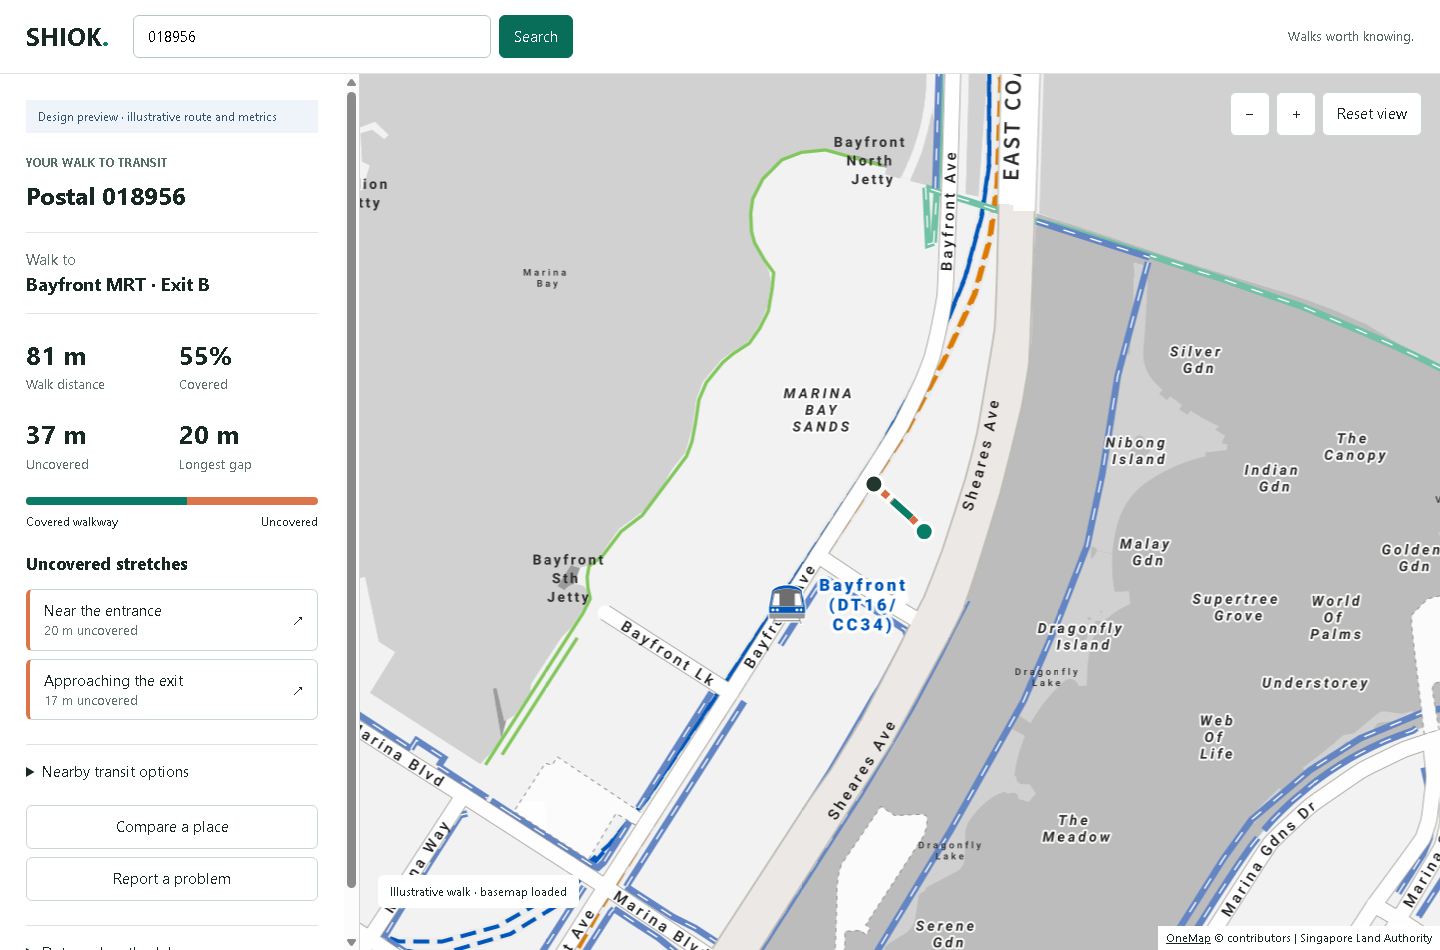
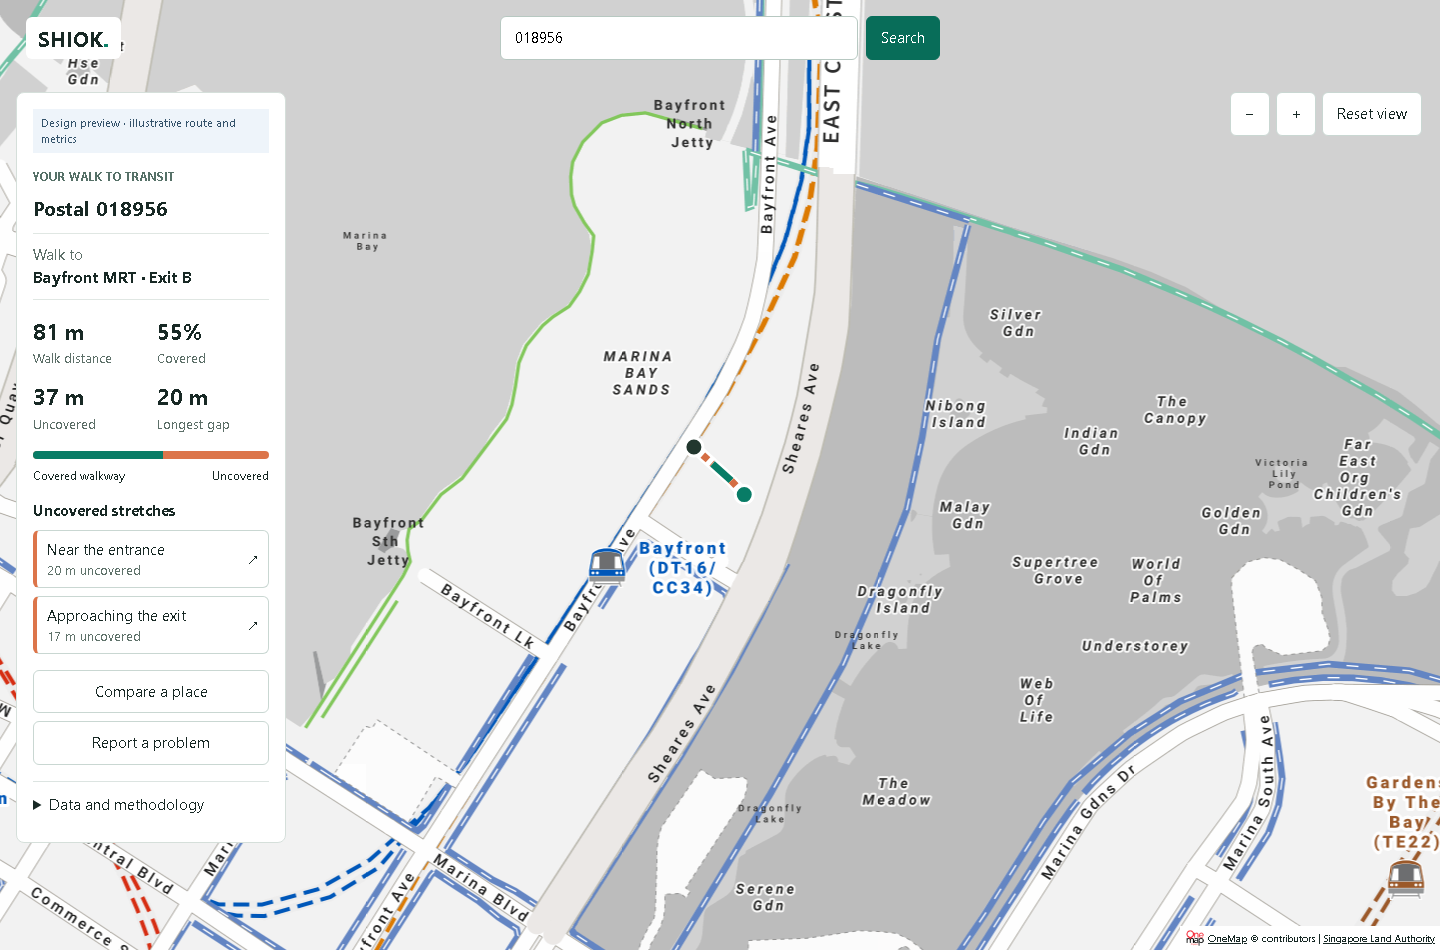
style: prioritize map in shelter walk prototype

diff --git a/qa/prototypes/shelter-walk.html b/qa/prototypes/shelter-walk.html
@@ -4,9 +4,11 @@
 *{box-sizing:border-box}body{margin:0;font:15px/1.45 system-ui,sans-serif;color:#182925;background:#edf1f1}button,input,textarea{font:inherit}button{cursor:pointer}button:focus-visible,input:focus-visible,textarea:focus-visible{outline:3px solid #147ca3;outline-offset:3px}header{height:74px;display:flex;align-items:center;gap:24px;padding:16px 26px;background:white;border-bottom:1px solid #dce4e1}header strong{font-size:25px}header small{color:#566762;margin-left:auto}form{display:flex;gap:8px;max-width:440px;flex:1}input{width:100%;min-width:0;border:1px solid #b7c8c1;border-radius:6px;padding:10px 14px}button{border:1px solid #c9d7d2;border-radius:6px;background:white;padding:10px 14px;color:inherit}.primary{background:#086d59;color:white;border-color:#086d59}main{height:calc(100dvh - 74px);display:grid;grid-template-columns:360px 1fr}.panel{background:white;overflow:auto;padding:26px;border-right:1px solid #ccd9d3;z-index:2}.eyebrow{font-size:12px;text-transform:uppercase;color:#567168;font-weight:700}h1{font-size:24px;line-height:1.2;margin:8px 0}h2{font-size:17px;margin:22px 0 12px}.muted{color:#5d7069}p{margin:10px 0}.destination{padding:16px 0;border-top:1px solid #e0e7e3;border-bottom:1px solid #e0e7e3;margin:22px 0 14px}.destination strong{display:block;font-size:18px}.metrics{display:grid;grid-template-columns:1fr 1fr;gap:20px 14px;margin:22px 0}.metrics strong{font-size:26px;display:block}.metrics span{font-size:13px;color:#5d7069}.coverage{height:8px;background:#dc754a;border-radius:4px;overflow:hidden}.coverage div{width:55%;height:100%;background:#087c66}.legend{display:flex;justify-content:space-between;font-size:12px;margin-top:8px}.gap{display:flex;align-items:center;justify-content:space-between;width:100%;text-align:left;margin:8px 0;border-left:4px solid #dc754a}.gap[aria-pressed=true]{background:#fff0e9}.gap small{display:block;color:#60736b}.actions{display:grid;gap:8px;margin-top:22px}details{border-top:1px solid #dce4e1;padding-top:16px;margin-top:24px}summary{cursor:pointer}.map{position:relative;overflow:hidden;background:#e1e9e8}canvas{width:100%;height:100%;display:block}.maptools{position:absolute;top:18px;right:18px;display:flex;gap:6px}.mapnote{position:absolute;bottom:42px;left:18px;background:white;padding:8px 12px;border-radius:6px;font-size:12px}.attribution{position:absolute;right:0;bottom:0;background:white;padding:4px 8px;font-size:11px}.attribution a{color:inherit}.toggle{display:none}dialog{border:1px solid #bccdc5;border-radius:8px;padding:24px;width:min(460px,calc(100% - 28px));color:inherit}dialog::backdrop{background:#172b2766}dialog h2{margin-top:0}label{display:block;margin:16px 0 6px}textarea{width:100%;min-height:100px}dialog footer{display:flex;justify-content:flex-end;gap:8px;margin-top:18px}#notice{font-size:12px;color:#5d7069}.candidate{width:100%;text-align:left;margin:6px 0}.candidate small{display:block}.prototype{background:#eef4fa;color:#34536b;padding:8px 12px;font-size:12px;margin-bottom:18px}.hidden{display:none}
 @media(max-width:700px){header{height:114px;padding:12px 16px;flex-wrap:wrap;gap:8px}header strong{font-size:22px}header small{font-size:11px}form{order:3;max-width:none;flex-basis:100%}main{height:calc(100dvh - 114px);display:block;position:relative}.map{height:100%}.panel{position:absolute;bottom:28px;left:8px;right:8px;border:1px solid #cddad4;border-radius:8px;padding:16px;max-height:235px;overflow:auto;box-shadow:0 4px 18px #19382a18}.panel.expanded{max-height:78%}.panel:not(.expanded) .more{display:none}.toggle{display:block;margin-left:auto;padding:5px 10px;font-size:12px}.panel h1{font-size:19px}.prototype{padding:4px 8px;margin-bottom:8px;font-size:11px}.destination{margin:10px 0;padding:8px 0}.destination strong{font-size:16px}.metrics{margin:10px 0;gap:8px;grid-template-columns:repeat(4,1fr)}.metrics strong{font-size:19px}.metrics span{font-size:10px}.mapnote{top:14px;bottom:auto;left:12px;max-width:180px}.maptools{top:64px;right:12px}.eyebrow{font-size:10px}}
 @media(max-width:700px){.toggle{float:right;margin:0 0 4px 8px}.panel{max-height:260px}.panel h1{margin:4px 0}.destination{margin:8px 0;padding:6px 0}.metrics{margin:8px 0}.maptools{top:72px}}
+header{position:absolute;top:0;left:0;right:0;z-index:3;background:transparent;border:0;height:76px;pointer-events:none}header strong{background:white;border-radius:6px;padding:6px 12px;font-size:21px;pointer-events:auto}form{position:absolute;left:50%;transform:translateX(-50%);width:min(440px,calc(100% - 340px));max-width:440px;pointer-events:auto}main{height:100dvh;display:block;position:relative}.map{height:100%}.panel{position:absolute;left:16px;top:92px;bottom:auto;width:270px;max-height:calc(100dvh - 132px);border:1px solid #d5dfda;border-radius:8px;padding:16px}.panel h1{font-size:20px}.metrics{gap:12px;margin:16px 0}.metrics strong{font-size:22px}.destination{padding:10px 0;margin:14px 0}.destination strong{font-size:16px}h2{margin:16px 0 8px;font-size:15px}.gap{padding:8px 10px}.actions{margin-top:16px}details{margin-top:16px;padding-top:12px}.prototype{font-size:11px;padding:6px 8px;margin-bottom:12px}.maptools{top:92px}.attribution{display:flex;align-items:center;gap:3px;font-size:10px;padding:2px 5px}.mapnote[hidden]{display:none}
+@media(max-width:700px){header{height:108px;padding:10px 12px;display:block}header strong{display:inline-block;font-size:18px}form{top:54px;width:calc(100% - 24px);max-width:440px}.panel{top:auto;bottom:30px;left:8px;right:8px;width:auto;max-height:230px;padding:12px}.panel.expanded{max-height:65%}.metrics{grid-template-columns:repeat(4,1fr);gap:6px;margin:8px 0}.metrics strong{font-size:19px}.destination{margin:6px 0;padding:6px 0}.prototype{margin-bottom:6px}.maptools{top:116px}.attribution{font-size:9px}.attribution img{width:16px;height:16px}}
 </style>
-<header><strong>SHIOK<span style="color:#0b8068">.</span></strong><form id="search"><input aria-label="Postal code" inputmode="numeric" pattern="[0-9]{6}" maxlength="6" value="018956" required><button class="primary">Search</button></form><small>Walks worth knowing.</small></header>
-<main><aside class="panel" id="panel"><div class="prototype">Design preview · illustrative route and metrics</div><button class="toggle" id="expand" aria-expanded="false">Walk details</button><span class="eyebrow">Your walk to transit</span><h1 id="postal">Postal 018956</h1><div class="destination"><span class="muted">Walk to</span><strong>Bayfront MRT · Exit B</strong></div><div class="metrics"><div><strong>81 m</strong><span>Walk distance</span></div><div><strong>55%</strong><span>Covered</span></div><div><strong>37 m</strong><span>Uncovered</span></div><div><strong>20 m</strong><span>Longest gap</span></div></div><div class="more"><div class="coverage"><div></div></div><div class="legend"><span>Covered walkway</span><span>Uncovered</span></div><h2>Uncovered stretches</h2><button class="gap" data-gap="1" aria-pressed="false"><span>Near the entrance<small>20 m uncovered</small></span><span aria-hidden="true">↗</span></button><button class="gap" data-gap="2" aria-pressed="false"><span>Approaching the exit<small>17 m uncovered</small></span><span aria-hidden="true">↗</span></button><details><summary>Nearby transit options</summary><p class="muted">Illustrative choices for layout review.</p><button class="candidate" id="candidate">Bayfront MRT · Exit B<small>81 m walk · 55% covered · selected</small></button><p class="muted">Additional destinations appear here when supported by route evidence.</p></details><div class="actions"><button id="compare">Compare a place</button><button id="report">Report a problem</button></div><details><summary>Data and methodology</summary><p>This prototype uses an illustrative route. It does not provide navigation or recalculate published scores. Source dates and the existing score will appear here in the application.</p></details><p id="notice" role="status"></p></div></aside><section class="map" aria-label="Illustrative walk map"><canvas id="map"></canvas><div class="maptools"><button id="minus" title="Zoom out" aria-label="Zoom out">−</button><button id="plus" title="Zoom in" aria-label="Zoom in">+</button><button id="fit">Reset view</button></div><div class="mapnote" id="mapstatus" role="status">Loading basemap…</div><div class="attribution"><a href="https://www.onemap.gov.sg/">OneMap</a> © contributors | Singapore Land Authority</div></section></main>
+<header><strong>SHIOK<span style="color:#0b8068">.</span></strong><form id="search"><input aria-label="Postal code" inputmode="numeric" pattern="[0-9]{6}" maxlength="6" value="018956" required><button class="primary">Search</button></form></header>
+<main><aside class="panel" id="panel"><div class="prototype">Design preview · illustrative route and metrics</div><button class="toggle" id="expand" aria-expanded="false">Walk details</button><span class="eyebrow">Your walk to transit</span><h1 id="postal">Postal 018956</h1><div class="destination"><span class="muted">Walk to</span><strong>Bayfront MRT · Exit B</strong></div><div class="metrics"><div><strong>81 m</strong><span>Walk distance</span></div><div><strong>55%</strong><span>Covered</span></div><div><strong>37 m</strong><span>Uncovered</span></div><div><strong>20 m</strong><span>Longest gap</span></div></div><div class="more"><div class="coverage"><div></div></div><div class="legend"><span>Covered walkway</span><span>Uncovered</span></div><h2>Uncovered stretches</h2><button class="gap" data-gap="1" aria-pressed="false"><span>Near the entrance<small>20 m uncovered</small></span><span aria-hidden="true">↗</span></button><button class="gap" data-gap="2" aria-pressed="false"><span>Approaching the exit<small>17 m uncovered</small></span><span aria-hidden="true">↗</span></button><div class="actions"><button id="compare">Compare a place</button><button id="report">Report a problem</button></div><details><summary>Data and methodology</summary><p>This prototype uses an illustrative route. It does not provide navigation or recalculate published scores. Source dates and the existing score will appear here in the application.</p></details><p id="notice" role="status"></p></div></aside><section class="map" aria-label="Illustrative walk map"><canvas id="map"></canvas><div class="maptools"><button id="minus" title="Zoom out" aria-label="Zoom out">−</button><button id="plus" title="Zoom in" aria-label="Zoom in">+</button><button id="fit">Reset view</button></div><div class="mapnote" hidden id="mapstatus" role="status">Loading basemap…</div><div class="attribution"><img src="https://www.onemap.gov.sg/web-assets/images/logo/om_logo.png" width="20" height="20" alt="OneMap"> <a href="https://www.onemap.gov.sg/">OneMap</a> © contributors | <a href="https://www.sla.gov.sg/">Singapore Land Authority</a></div></section></main>
 <dialog id="comparison"><h2>Compare a place</h2><label for="other">Another postal code</label><input id="other" inputmode="numeric" maxlength="6" placeholder="6-digit postal"><p class="muted">Comparison will show walk distance, shelter and gaps side by side. This preview does not look up additional records.</p><footer><button data-close>Close</button></footer></dialog>
 <dialog id="feedback"><h2>Report a problem</h2><label><input type="radio" name="kind" value="correction" checked style="width:auto"> The map is incorrect</label><label><input type="radio" name="kind" value="suggestion" style="width:auto"> This stretch needs shelter</label><label for="note">What should we know?</label><textarea id="note" maxlength="1000"></textarea><p class="muted">Preview only. Nothing is submitted. In the service, reports will be private until reviewed. Please leave out personal details.</p><footer><button data-close>Close</button></footer></dialog>
 <script>

diff --git a/decisions.md b/decisions.md
@@ -1,3 +1,6 @@
+2026-09-06 - Map-first prototype layout feedback:
+Owner requested a centered search bar, substantially smaller left panel, no tagline or routine successful-map-load label, and the map as the primary visual surface. The prototype now uses a full-screen map with a 270px floating desktop panel and compact mobile sheet. Removed the empty nearby-transit-options section; actual alternative destinations remain in the agreed product scope. OneMap logo and attribution remain visibly unobtrusive because https://www.onemap.gov.sg/docs/maps/ explicitly requires both. Changes apply to the prototype only; no production deployment or artifact changes.
+
 2026-09-06 - Product revamp architecture accepted:
 The owner approved postal-to-nearby-transit first, with arbitrary origin/destination later; no live weather; a small useful transit candidate list exposing distance/shelter trade-offs; and separate mapping corrections and shelter suggestions, private pending owner moderation. The service remains free and non-commercial with a strict $0 budget, scheduled source checks and periodic validated releases. ARCHITECTURE.md, ARCHITECTURE-DECISIONS.md, PRODUCT-PLAN.md and qa/SHIOK-acceptance-tests.md define the implementation contract. The test catalogue is planned coverage, not executed tests. Feedback infrastructure, compute runs and production deployment retain explicit approval gates. UI mockups are the next reviewable deliverable; existing values and locked weights are unchanged.
 

diff --git a/.agents/STATE.md b/.agents/STATE.md
@@ -10,6 +10,9 @@ Preview: qa/prototypes/shelter-walk.html (open directly in a browser).
 Checks: qa/prototypes/check-preview.mjs; desktop/mobile screenshots alongside it.
 Next: owner layout review, then implement core walk/map reliability using real data.
 Prototype uses explicitly illustrative geometry/metrics; dialogs do not submit reports.
+Latest owner feedback: map dominates; centered search; smaller floating panel;
+no tagline or successful-load badge; no empty transit-options section.
+Retain unobtrusive mandatory OneMap logo/attribution per official map guidance.
 Owner agreed: postal-to-transit first; bounded transit choices; no weather; private
 owner-moderated reports; $0 maintained service. Feedback infrastructure unresolved.
 Future goals/loops must preserve explicit compute, infrastructure and deploy gates.
